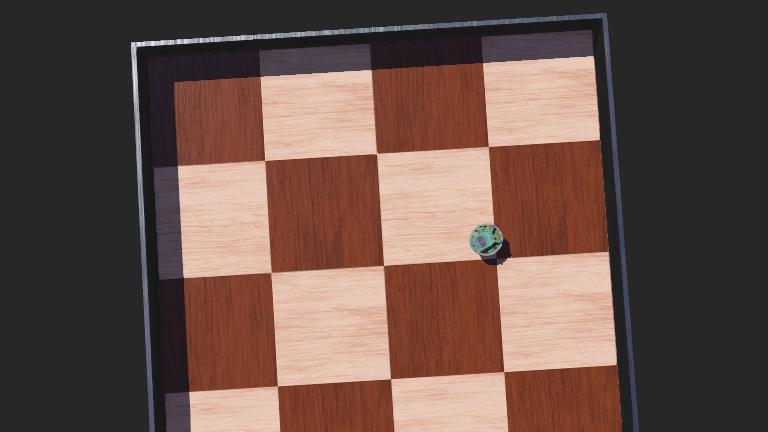
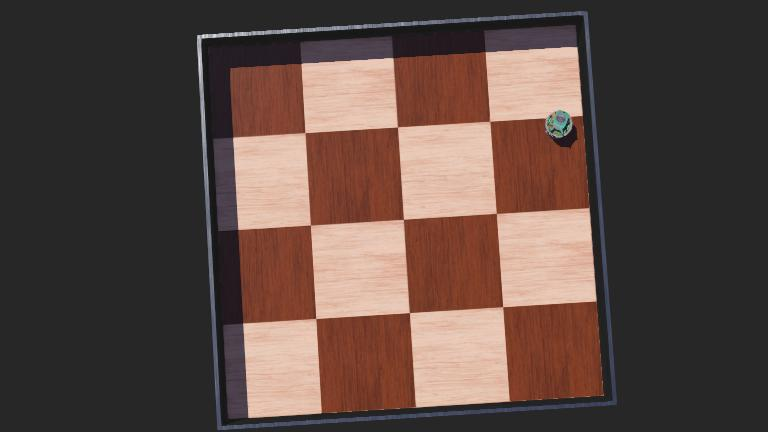
feature: added vscode intergration

diff --git a/controllers/attacker_controller/attacker_controller.py b/controllers/attacker_controller/attacker_controller.py
@@ -3,15 +3,16 @@ from controller import Robot
 robot = Robot()
 timestep = int(robot.getBasicTimeStep())
 
-# Motors
 left_motor = robot.getDevice('left wheel motor')
 right_motor = robot.getDevice('right wheel motor')
 
 left_motor.setPosition(float('inf'))
 right_motor.setPosition(float('inf'))
 
-left_motor.setVelocity(3.0)
-right_motor.setVelocity(3.0)
+SPEED = 6.28
+
+left_motor.setVelocity(SPEED)
+right_motor.setVelocity(SPEED)
 
 while robot.step(timestep) != -1:
     pass
